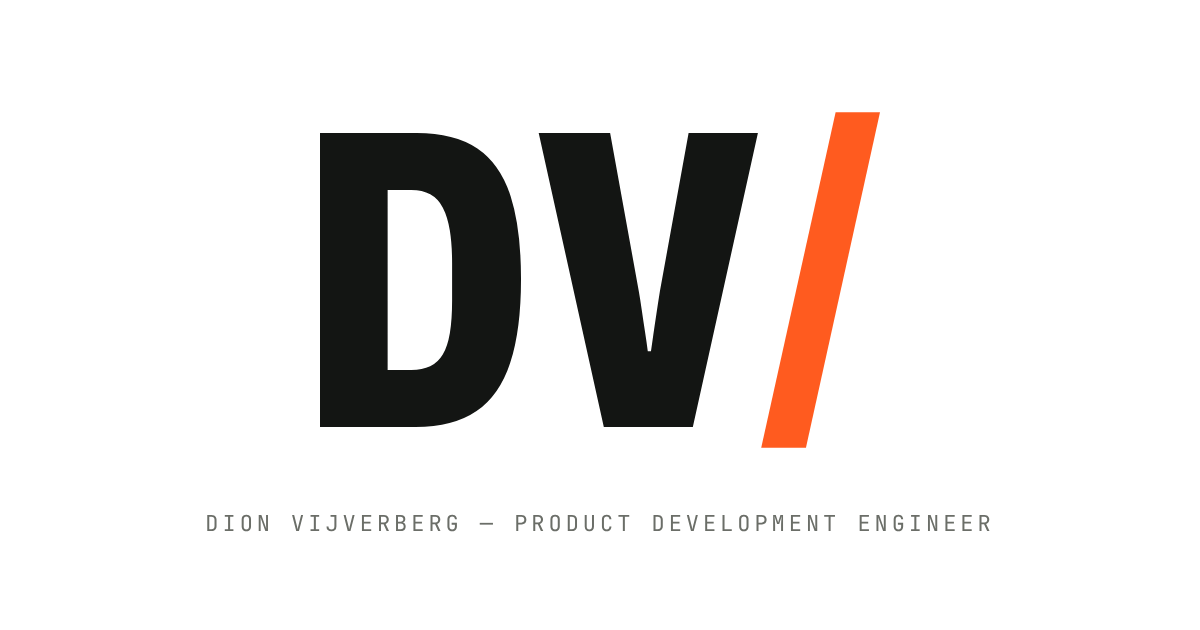
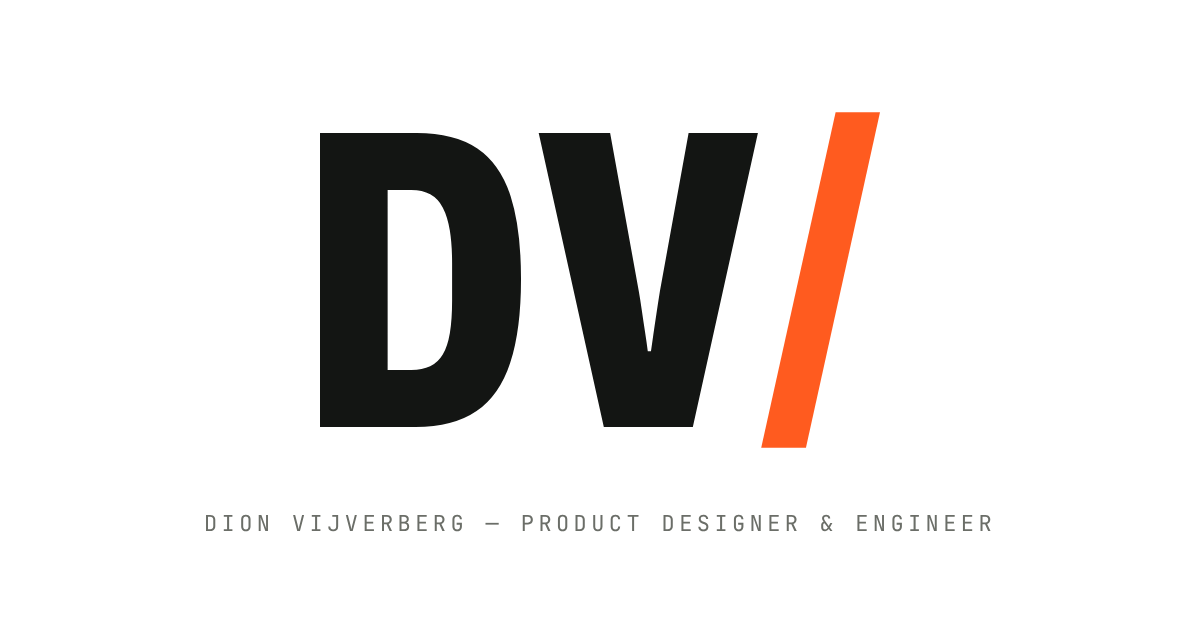
Homepage: titel product designer and engineer, Click-Pax en KUBO als grote kaarten, About korter, Toolkit uitgedund, bijschrift 3D uitgelijnd
Claude-Session: https://claude.ai/code/session_017GziBTv91fbg3NMnEvP9zM

Changed region(s): [[0.4317, 0.8143, 0.8325, 0.8444], [0.2467, 0.8143, 0.4008, 0.8444], [0.1542, 0.8143, 0.2158, 0.8444]]

diff --git a/index.html b/index.html
@@ -3,7 +3,7 @@
 <head>
   <meta charset="utf-8">
   <meta name="viewport" content="width=device-width, initial-scale=1">
-  <title>Dion Vijverberg — Product Development Engineer</title>
+  <title>Dion Vijverberg — Product designer and engineer</title>
   <meta name="description" content="Dion Vijverberg, product designer and engineer. I design and build products, physical and digital.">
   <script>try{var t=localStorage.getItem("theme");if(t)document.documentElement.dataset.theme=t}catch(e){}</script>
   <link rel="preload" href="/assets/fonts/archivo.woff2" as="font" type="font/woff2" crossorigin>
@@ -11,7 +11,7 @@
   <link rel="icon" href="/favicon.ico" sizes="32x32">
   <link rel="apple-touch-icon" href="/apple-touch-icon.png">
   <meta property="og:type" content="website">
-  <meta property="og:title" content="Dion Vijverberg — Product Development Engineer">
+  <meta property="og:title" content="Dion Vijverberg — Product designer and engineer">
   <meta property="og:description" content="Product designer and engineer. I design and build products, physical and digital.">
   <meta property="og:url" content="https://websitesdv.vercel.app/">
   <meta property="og:image" content="https://websitesdv.vercel.app/og.png">
@@ -72,24 +72,29 @@
           </div>
         </a>
 
-        <div class="projects">
-          <a class="project card-img rv" href="/projects/click-pax">
-            <div class="thumb thumb-die" aria-hidden="true">
-              <svg viewBox="-20 -20 1075 520"><path d="M35 100 L0 115 L0 285 L35 300 L35 300 L35 400 L332 400 L332 300 L338 300 L338 400 L532 400 L532 300 L538 300 L538 400 L832 400 L832 300 L838 300 L838 400 L1035 400 L1035 300 L1035 100 L1035 100 L1035 0 L838 0 L838 100 L832 100 L832 0 L538 0 L538 100 L532 100 L532 0 L338 0 L338 100 L332 100 L332 0 L35 0 L35 100 Z" class="t-cut"/><path class="t-crease" d="M35 100 L1035 100 M35 300 L1035 300 M35 100 L35 300 M335 100 L335 300 M535 100 L535 300 M835 100 L835 300"/></svg>
-            </div>
+        <a class="feature flip rv" href="/projects/click-pax">
+          <div class="img thumb-die" aria-hidden="true">
+            <svg viewBox="-20 -20 1075 520"><path d="M35 100 L0 115 L0 285 L35 300 L35 300 L35 400 L332 400 L332 300 L338 300 L338 400 L532 400 L532 300 L538 300 L538 400 L832 400 L832 300 L838 300 L838 400 L1035 400 L1035 300 L1035 100 L1035 100 L1035 0 L838 0 L838 100 L832 100 L832 0 L538 0 L538 100 L532 100 L532 0 L338 0 L338 100 L332 100 L332 0 L35 0 L35 100 Z" class="t-cut"/><path class="t-crease" d="M35 100 L1035 100 M35 300 L1035 300 M35 100 L35 300 M335 100 L335 300 M535 100 L535 300 M835 100 L835 300"/></svg>
+          </div>
+          <div class="txt">
             <div class="top"><span class="mono hot">02</span><span class="mono">Click-Pax · 2023 — now</span></div>
             <h3>From a customer request to a proposal, automatically</h3>
-            <p>Packaging concepts, and a chain of tools that turns a request into a dieline, renders, a price and a proposal.</p>
+            <p>A chain of tools I built with Claude that turns a request into a dieline, a print, renders, a price and a proposal in a few minutes. No language model in the calculations, and prints that fail a quality check go to a person.</p>
+            <div class="tags"><span>Python</span><span>Blender add-ons</span><span>Automation</span><span>Packaging</span></div>
             <span class="go">↗</span>
-          </a>
-          <a class="project card-img rv" href="/projects/kubo-rnd">
-            <div class="thumb"><img src="/assets/projects/kubo/tools.jpg" alt="" width="1600" height="1200" loading="lazy"></div>
+          </div>
+        </a>
+
+        <a class="feature rv" href="/projects/kubo-rnd">
+          <div class="img"><img src="/assets/projects/kubo/tools.jpg" alt="" width="1600" height="1200" loading="lazy"></div>
+          <div class="txt">
             <div class="top"><span class="mono hot">03</span><span class="mono">KUBO R&amp;D · 2025</span></div>
             <h3>Analyse, build, test: R&amp;D at KUBO</h3>
-            <p>A tool redesigned and taken to production, an airflow test setup, and a heat test on PVC.</p>
+            <p>A greenhouse tool redesigned and taken to production, an airflow test setup, and a heat test on PVC.</p>
+            <div class="tags"><span>Redesign</span><span>Supplier</span><span>Testing</span></div>
             <span class="go">↗</span>
-          </a>
-        </div>
+          </div>
+        </a>
       </section>
 
       <section id="about">
@@ -104,8 +109,7 @@
           </figure>
           <div class="about-text rv">
             <p>I like understanding how products work by taking them apart. At eighteen I bought a fifty-year-old Zündapp moped without knowing how a two-stroke engine worked. I've since spent <strong>more time repairing it than riding it.</strong></p>
-            <p>I still work that way. I'd rather build a rough version and test it than keep drawing. That goes for a sensor setup on a workbench, a tool that has to be made by a supplier, or a piece of software that saves a team hours of repetitive work.</p>
-            <p>More and more of what I build is digital. I write my own Blender add-ons and Python tools, and I use AI as a working partner to get from idea to a working version quickly.</p>
+            <p>I still work that way. I'd rather build something rough and test it than keep drawing. These days that's as often software as hardware: I write my own Blender add-ons and Python tools, with AI as a working partner.</p>
           </div>
         </div>
       </section>
@@ -156,11 +160,11 @@
         </div>
         <div class="skill-groups">
           <div class="rv"><span class="mono">Physical product</span>
-            <div class="skills"><span>Concept development</span><span>SolidWorks</span><span>Inventor</span><span>Design for manufacturing</span><span>Prototyping</span><span>3D printing</span><span>Test setups &amp; measurement</span><span>Circularity &amp; repairability</span></div></div>
+            <div class="skills"><span>SolidWorks</span><span>Design for manufacturing</span><span>Prototyping &amp; 3D printing</span><span>Test setups &amp; measurement</span></div></div>
           <div class="rv"><span class="mono">Digital</span>
-            <div class="skills"><span>Blender &amp; rendering</span><span>Blender add-ons</span><span>Python</span><span>Arduino</span><span>Data analysis</span><span>Digital prototyping</span><span>Web prototypes</span></div></div>
+            <div class="skills"><span>Blender &amp; rendering</span><span>Python</span><span>Arduino</span><span>Web prototypes</span></div></div>
           <div class="rv"><span class="mono">Working with AI</span>
-            <div class="skills"><span>Building tools with AI</span><span>Workflow automation</span><span>Render &amp; document automation</span></div></div>
+            <div class="skills"><span>Building software with Claude</span><span>Git, tests &amp; pull requests</span><span>Render &amp; proposal automation</span></div></div>
         </div>
       </section>
 

diff --git a/assets/home.css b/assets/home.css
@@ -52,7 +52,7 @@
 .contact-links .mail { justify-self: start; }
 
 /* hero with 3D model */
-.hero.home { grid-template-columns: 1.05fr 1fr; gap: 24px; align-items: center; padding: 72px 0 24px; }
+.hero.home { grid-template-columns: 1.05fr 1fr; gap: 24px; align-items: end; padding: 72px 0 24px; }
 .hero.home h1 { font-size: clamp(56px, 8vw, 112px); }
 .hero-3d { position: relative; }
 .hero-3d .m3d-stage {
@@ -60,7 +60,7 @@
   background: none; overflow: visible;
 }
 .hero-3d .m3d-status { opacity: .6; }
-.hero-3d figcaption { display: flex; justify-content: space-between; gap: 12px; margin-top: -8px; }
+.hero-3d figcaption { display: flex; justify-content: space-between; gap: 12px; }
 .hero-3d figcaption a { text-decoration: none; color: var(--ink); }
 .hero-3d figcaption a:hover { color: var(--hot); }
 @media (max-width: 860px) {
@@ -74,14 +74,17 @@
 .projects .project.soon .top { display: flex; justify-content: space-between; width: 100%; }
 .exp li.earlier .role { font-weight: 500; color: var(--dim); }
 
-/* project cards with thumbnail */
-.project.card-img { min-height: 0; gap: 0; }
-.project .thumb { margin: -22px -22px 18px; aspect-ratio: 16 / 9; overflow: hidden; background: var(--surface); border-bottom: 1px solid var(--faint); }
-.project .thumb img { width: 100%; height: 100%; object-fit: cover; transition: transform .8s cubic-bezier(.2,.8,0,1); }
-.project:hover .thumb img { transform: scale(1.03); }
-.thumb-die { display: grid; place-items: center; padding: 6% 8%; }
+/* Click-Pax dieline as feature visual (placeholder until renders) */
+.feature .img.thumb-die { display: grid; place-items: center; padding: 8% 9%; aspect-ratio: 4 / 3; }
 .thumb-die svg { width: 100%; }
 .thumb-die .t-cut { fill: var(--bg); stroke: var(--ink); stroke-width: 1.5; vector-effect: non-scaling-stroke; }
 .thumb-die .t-crease { fill: none; stroke: var(--hot); stroke-width: 1.5; stroke-dasharray: 6 4; vector-effect: non-scaling-stroke; }
-.project.card-img h3 { padding-top: 14px; margin-top: 0; }
-.project.card-img p { padding-right: 28px; }
+.feature + .feature { margin-top: 20px; }
+.feature.flip { grid-template-columns: 1fr 1.35fr; }
+.feature.flip .img { order: 2; border-left: 1px solid var(--faint); }
+.feature:not(.flip) .img { border-right: 1px solid var(--faint); }
+@media (max-width: 860px) {
+  .feature.flip { grid-template-columns: 1fr; }
+  .feature.flip .img { order: 0; border-left: 0; }
+  .feature .img { border-right: 0 !important; border-bottom: 1px solid var(--faint); }
+}
